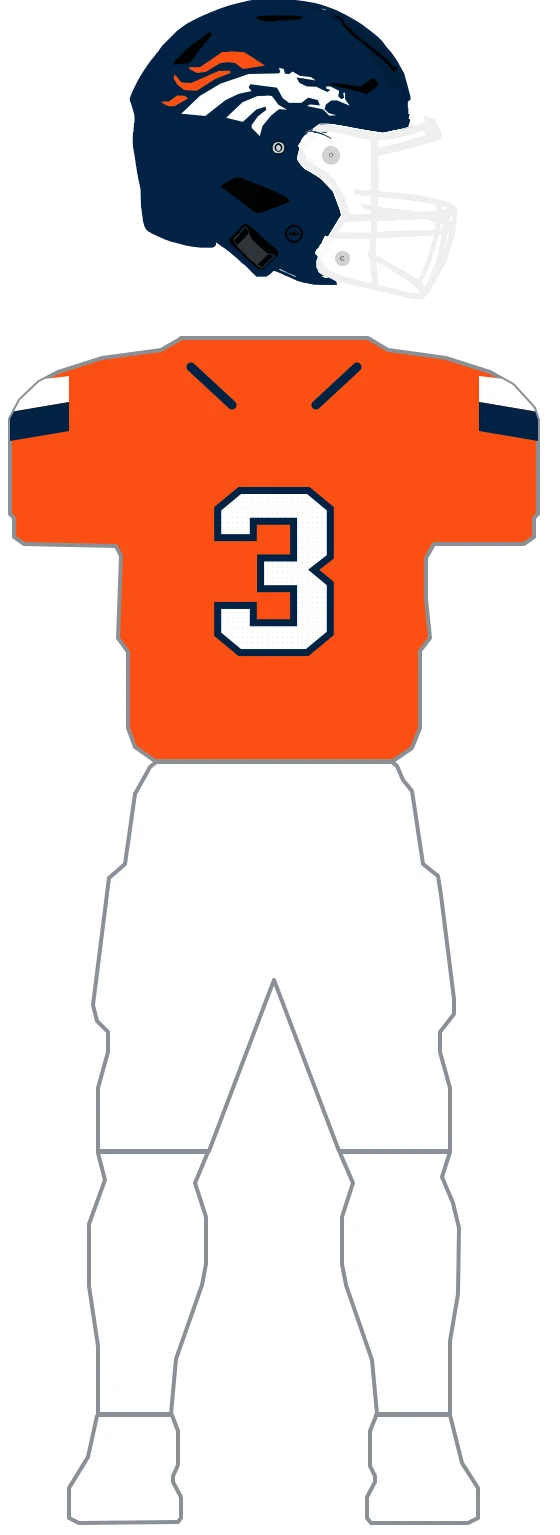
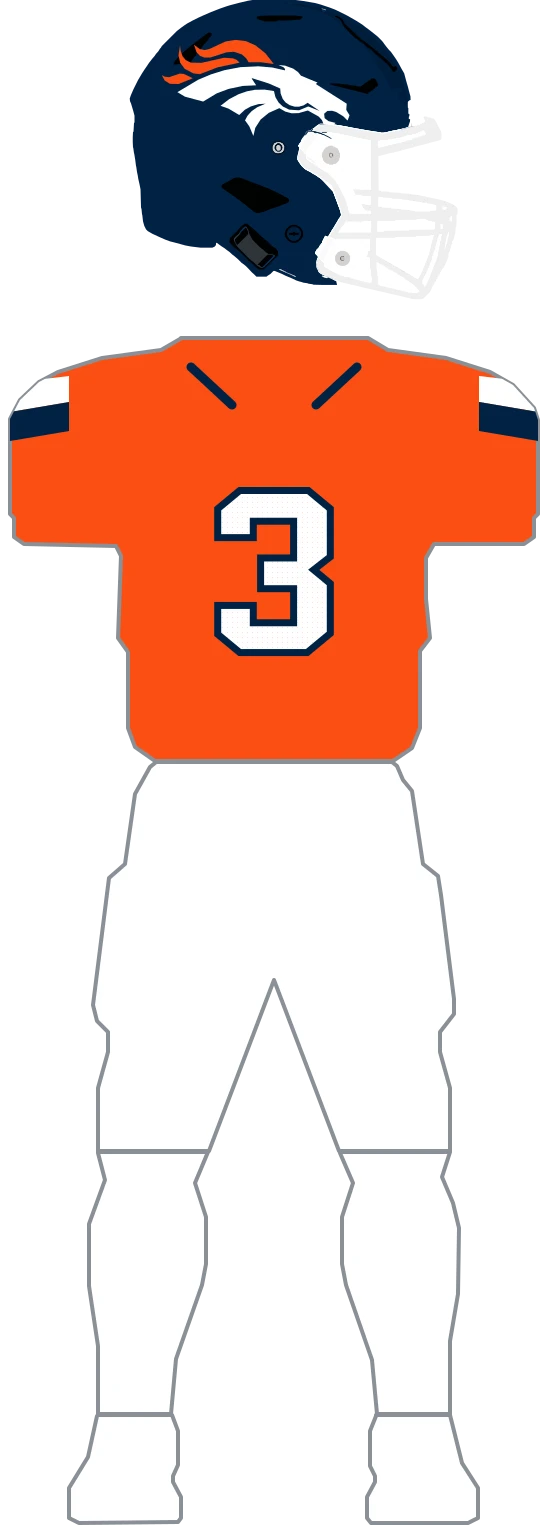
fix(uniforms): re-author Broncos helmet horse

Changed region(s): [[0.3036, 0.0, 0.6375, 0.0919]]

diff --git a/lib/uniforms/teams/broncos.ts b/lib/uniforms/teams/broncos.ts
@@ -24,9 +24,9 @@ export const BRONCOS_WHITE = '#FFFFFF';
 //   - The "D" is a keyline case: white traced as the union of white AND orange, with the orange "D"
 //     painted over it. The white bucking horse inside survives for free.
 export const BRONCOS_DECAL_MANE_PATH =
-  'M341.0,170.6 L368.3,172.5 L409.8,199.2 L365.2,206.1 L350.3,194.3 L335.4,192.4 L319.9,194.3 L291.4,211.7 L273.5,214.1 L258.0,206.1 L258.0,202.3 L279.6,202.3 L323.0,172.5 L340.4,171.3 Z M339.8,208.5 L340.4,214.1 L310.0,225.9 L272.8,249.6 L248.0,248.3 L233.8,237.1 L226.4,224.1 L228.8,216.6 L242.5,232.8 L261.7,234.0 L316.8,209.8 L339.1,209.2 Z M233.8,258.9 L249.3,259.5 L255.5,265.1 L228.2,280.6 L216.4,280.6 L203.4,273.8 L204.7,270.7 L216.4,271.3 L233.2,259.5 Z';
+  'M349.3,147.6 L371.2,150.2 L390.5,158.7 L410.3,174.5 L427.0,195.9 L400.4,192.5 L376.8,192.5 L371.6,184.3 L363.1,176.7 L347.2,171.5 L332.2,172.8 L300.0,183.1 L288.0,183.1 L279.4,179.6 L272.5,172.4 L267.4,157.4 L279.4,166.4 L289.3,168.1 L298.3,166.0 L330.4,151.0 L348.9,148.0 Z M239.5,158.7 L240.8,169.8 L244.6,180.5 L251.1,188.2 L260.9,193.3 L282.4,193.7 L327.9,183.5 L345.9,184.8 L352.3,187.3 L358.8,193.3 L314.6,202.7 L279.0,216.4 L266.1,214.7 L248.9,205.7 L239.9,193.7 L236.5,178.8 L239.5,159.1 Z M238.6,215.1 L247.6,216.0 L265.2,224.5 L236.9,236.0 L219.3,235.6 L208.6,228.8 L203.0,218.1 L209.4,221.5 L217.6,222.4 L238.2,215.5 Z M497.4,236.0 L499.5,236.9 L499.1,241.2 L502.9,238.6 L504.7,239.5 L503.4,242.0 L498.2,242.5 L496.1,238.6 L496.9,236.5 Z';
 export const BRONCOS_DECAL_HORSE_PATH =
-  'M438.3,203.6 L446.9,206.1 L449.4,215.4 L458.1,216.0 L464.3,211.0 L479.2,219.7 L501.5,222.2 L510.8,229.0 L472.3,222.8 L478.5,234.0 L493.4,240.9 L512.0,241.5 L534.3,252.0 L540.5,247.7 L531.8,245.2 L531.8,240.9 L539.9,240.9 L557.8,249.6 L556.0,260.7 L562.2,266.3 L567.8,263.8 L565.9,253.9 L569.6,253.3 L569.6,266.3 L578.9,279.4 L553.5,268.8 L542.4,268.8 L531.2,276.9 L528.7,286.2 L536.8,294.3 L552.3,298.6 L538.0,299.3 L525.6,286.8 L493.4,280.0 L499.6,276.9 L519.4,278.8 L515.1,268.2 L495.9,263.2 L482.3,273.8 L457.5,273.8 L445.1,264.5 L433.3,243.3 L380.0,236.5 L376.9,242.7 L382.5,250.2 L356.5,255.8 L330.5,268.2 L290.2,299.9 L241.9,295.5 L279.6,259.5 L320.5,235.3 L376.9,216.0 L437.0,214.8 L440.1,212.3 L437.6,204.2 Z M414.1,258.9 L423.4,260.1 L436.4,277.5 L453.8,287.5 L437.6,286.2 L421.5,299.3 L404.2,320.4 L399.2,340.3 L383.1,324.1 L382.5,318.5 L395.5,300.5 L412.2,287.5 L410.4,281.2 L392.4,286.8 L365.2,311.7 L331.7,303.6 L364.5,272.5 L394.3,260.1 L413.5,259.5 Z';
+  'M436.0,198.0 L449.7,199.3 L466.0,205.3 L475.5,212.1 L481.5,219.4 L514.5,233.1 L511.1,236.0 L572.9,275.4 L572.0,287.7 L578.5,298.4 L577.6,301.4 L574.6,309.1 L566.0,300.6 L551.9,292.0 L543.7,289.5 L534.3,289.9 L527.8,295.4 L528.7,304.4 L536.8,310.4 L550.6,313.8 L545.9,318.1 L529.6,317.2 L526.5,316.4 L523.5,308.3 L516.7,301.0 L495.2,289.0 L476.8,294.2 L463.0,294.6 L450.2,291.2 L438.2,284.3 L417.1,293.7 L400.8,307.0 L390.1,323.6 L386.2,339.9 L378.1,320.6 L369.5,308.7 L374.6,299.3 L382.8,290.3 L394.4,282.2 L410.7,275.4 L396.5,276.2 L381.1,280.9 L369.5,287.3 L357.9,298.0 L336.5,285.2 L320.6,279.6 L337.7,266.4 L356.2,256.6 L373.4,250.6 L389.2,247.6 L408.5,247.2 L427.4,250.1 L430.4,262.5 L436.9,273.2 L445.0,280.9 L457.9,287.3 L477.6,288.6 L496.1,280.9 L518.8,289.9 L494.8,273.6 L486.6,278.8 L477.6,281.3 L468.6,281.3 L458.7,278.3 L450.6,272.8 L445.0,266.0 L440.7,254.8 L439.9,245.0 L416.7,234.8 L384.1,224.5 L382.8,224.9 L391.8,238.6 L364.8,239.9 L336.5,245.9 L312.9,254.8 L285.8,271.1 L249.3,261.3 L234.3,252.3 L275.9,227.5 L301.3,216.8 L328.7,208.3 L360.5,202.3 L396.5,200.6 L424.4,203.1 L449.3,208.7 L449.7,206.1 L446.3,202.3 L436.4,198.0 Z';
 export const BRONCOS_CRUSH_DECAL_KEYLINE_PATH =
   'M329.2,147.6 L427.1,149.5 L332.9,149.5 L326.7,155.1 L326.7,176.9 L328.6,148.3 Z M334.2,152.6 L433.9,153.2 L458.1,160.1 L483.5,180.6 L496.5,204.2 L495.9,219.1 L492.8,204.2 L487.2,212.3 L475.4,212.3 L474.2,205.4 L467.4,205.4 L446.3,188.0 L432.7,182.4 L428.4,168.2 L399.2,168.2 L397.4,175.0 L382.5,175.0 L381.3,179.3 L388.7,181.8 L372.6,183.7 L373.8,214.8 L368.3,212.9 L365.8,216.6 L373.2,231.5 L382.5,234.0 L378.2,240.9 L382.5,258.9 L382.5,294.3 L440.1,297.4 L454.4,288.1 L460.0,296.2 L466.8,296.2 L466.8,299.9 L458.7,301.8 L459.3,317.9 L474.8,311.1 L489.7,290.6 L486.0,282.5 L480.4,296.2 L481.6,258.3 L467.4,248.3 L466.1,229.0 L474.8,227.2 L468.0,232.8 L485.4,234.0 L483.5,238.4 L491.6,243.3 L491.6,278.8 L495.9,274.4 L497.7,237.7 L496.5,278.1 L475.4,312.3 L457.5,324.1 L438.9,327.9 L332.3,327.2 L331.1,298.0 L348.4,292.4 L348.4,191.8 L344.1,184.9 L331.7,181.8 L333.6,153.2 Z M405.4,178.1 L412.2,179.3 L404.2,186.2 L411.0,190.5 L420.3,179.3 L421.5,193.6 L436.4,204.2 L435.8,207.3 L424.0,207.3 L412.2,199.8 L409.1,209.2 L426.5,228.4 L424.0,237.7 L440.1,246.4 L442.6,261.4 L448.8,263.8 L462.4,256.4 L471.7,261.4 L471.1,268.8 L464.9,261.4 L455.6,263.2 L440.7,276.3 L433.9,292.4 L394.9,292.4 L394.9,278.8 L399.2,271.9 L394.9,267.0 L393.7,247.1 L388.1,242.1 L395.5,235.3 L397.4,244.6 L406.0,237.7 L406.7,230.3 L389.9,215.4 L394.9,209.8 L402.9,214.8 L404.8,208.5 L399.9,200.5 L386.2,202.3 L384.4,197.4 L393.7,193.6 L388.1,184.9 L398.0,187.4 L404.8,178.7 Z M500.2,206.1 L502.1,236.5 L495.9,230.3 L473.6,223.5 L481.6,221.0 L495.9,224.7 L502.1,218.5 L500.2,206.7 Z';
 export const BRONCOS_CRUSH_DECAL_D_PATH =

diff --git a/scripts/uniform-draw/broncos_horse.py b/scripts/uniform-draw/broncos_horse.py
@@ -1,0 +1,94 @@
+"""Regenerates the Denver Broncos current helmet horse in ``broncos.ts``.
+
+    python3 scripts/uniform-draw/broncos_horse.py            # print the paths
+    python3 scripts/uniform-draw/broncos_horse.py --check    # verify broncos.ts matches
+
+This is a contour trace from the approved ``Denver Broncos logo.svg`` reference, not a
+hand-drawn reconstruction. The source is the fair-use, trademarked Wikipedia mark recorded
+in the vault's 2026-09-03 licence audit; it is used as a visual/vector reference only and
+stays in the sibling ``nfl-uniform-refs`` checkout. The internal GUD 2025 composite is used
+only to retain the helmet placement: the visible decal occupies the existing raw helmet box
+x=203..579, y=148..340. The source's navy body is the shell-colored negative space, so only
+the orange mane and white head are emitted as two color layers.
+
+Topology was measured after true-aspect ImageMagick rasterisation: the source has one navy
+body component, three orange mane components, and one white head component; the apparent eye
+and nostril are holes/shell-colored gaps, not additional foreground paths. The SVG is rendered
+at its true aspect because qlmanage's square thumbnail would distort this wide mark. Both
+colored masks are traced in one shared art bounding box so their relative placement survives
+mechanically. Numeric bbox/extents comparison against the normalized reference and the
+generated module's ``--check`` are part of the local verification workflow.
+"""
+
+import subprocess
+import tempfile
+from pathlib import Path
+
+from PIL import Image  # noqa: E402
+
+from drawkit import Box, components, main, mask, trace  # noqa: E402
+
+REF = Path.home() / 'Documents/GitHubProjects/nfl-uniform-refs/broncos/broncos-mark.svg'
+MODULE = Path(__file__).resolve().parents[2] / 'lib' / 'uniforms' / 'teams' / 'broncos.ts'
+BOX = Box(203.0, 147.6, 375.9, 192.7)
+MIN_REGION = 100
+EPS = 3.0
+
+
+def render_reference():
+    with tempfile.TemporaryDirectory() as tmp:
+        rendered = Path(tmp) / 'broncos.png'
+        subprocess.run(
+            ['magick', '-background', 'white', '-density', '300', str(REF), str(rendered)],
+            check=True,
+            capture_output=True,
+        )
+        return Image.open(rendered).convert('RGB')
+
+
+def orange(c):
+    return c[0] > 210 and c[1] < 130 and c[2] < 80
+
+
+def white(c):
+    return min(c) > 210
+
+
+def shared_masks():
+    im = render_reference()
+    orange_mask, w, h = mask(im, orange)
+    white_mask, _, _ = mask(im, white)
+    orange_regions = components(orange_mask, w, h, MIN_REGION)
+    # The page background is the white component touching the crop border; the horse is the
+    # separate enclosed white component. Keeping only that component prevents the canvas from
+    # becoming a traced rectangle.
+    white_regions = [
+        cells
+        for cells in components(white_mask, w, h, MIN_REGION)
+        if not any(x in (0, w - 1) or y in (0, h - 1) for x, y in cells)
+    ]
+    all_regions = orange_regions + white_regions
+    cells = [cell for region in all_regions for cell in region]
+    x0 = min(x for x, _ in cells)
+    y0 = min(y for _, y in cells)
+    x1 = max(x for x, _ in cells) + 1
+    y1 = max(y for _, y in cells) + 1
+    orange_cells = {cell for cells in orange_regions for cell in cells}
+    white_cells = set(white_regions[0])
+    crop = lambda cells: [
+        [1 if (x + x0, y + y0) in cells else 0 for x in range(x1 - x0)]
+        for y in range(y1 - y0)
+    ]
+    return crop(orange_cells), crop(white_cells), x1 - x0, y1 - y0
+
+
+def build():
+    orange_mask, white_mask, w, h = shared_masks()
+    return {
+        'BRONCOS_DECAL_MANE_PATH': trace(orange_mask, w, h, BOX, eps=EPS, minsize=MIN_REGION),
+        'BRONCOS_DECAL_HORSE_PATH': trace(white_mask, w, h, BOX, eps=EPS, minsize=MIN_REGION),
+    }
+
+
+if __name__ == '__main__':
+    main(build, MODULE)
